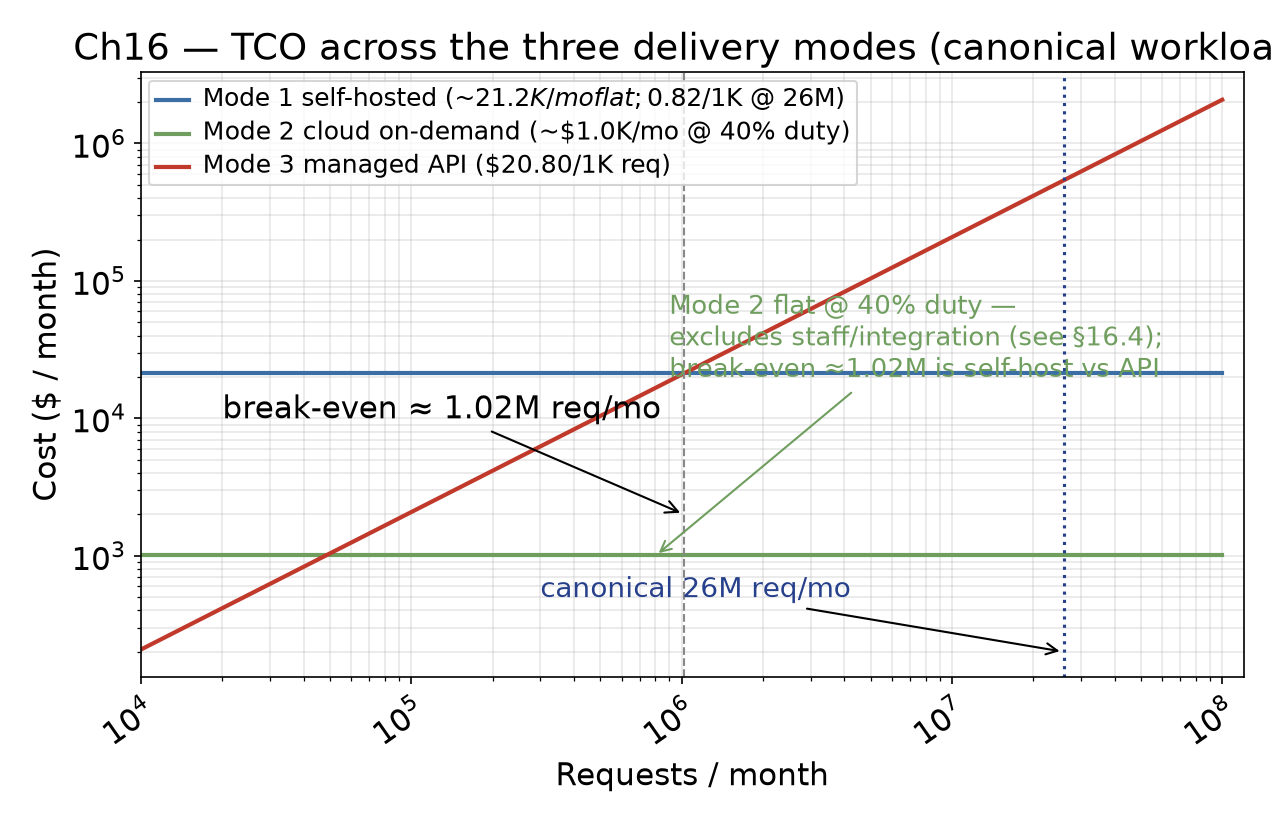
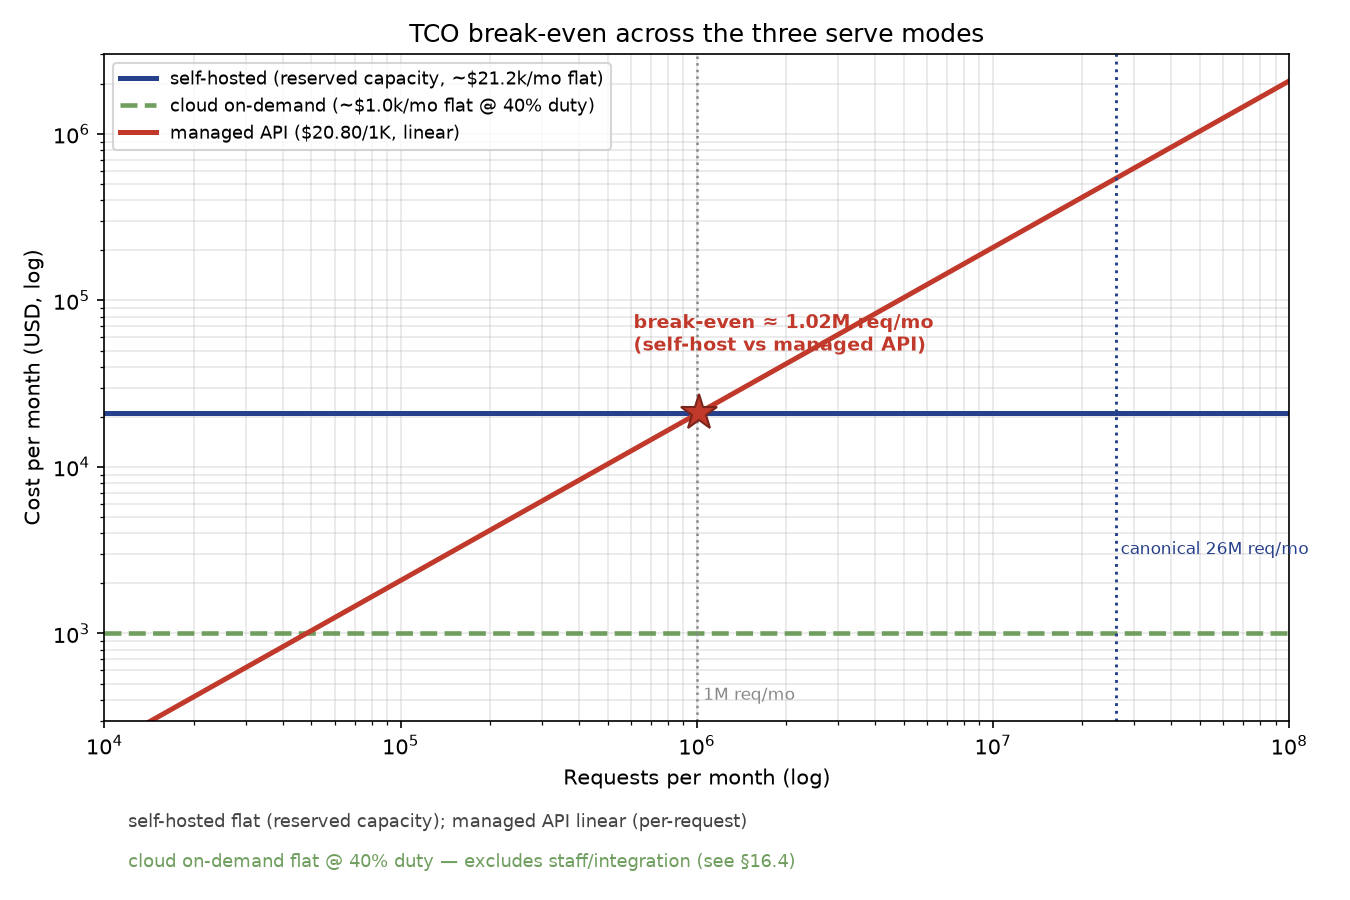
Fix Fig 16.1 TCO: unclipped title, three-mode curves, notes in margin (no legend/annotation overlap), labeled break-even

diff --git a/render/fig_ch16_tco.py b/render/fig_ch16_tco.py
@@ -1,0 +1,48 @@
+import matplotlib
+matplotlib.use('Agg')
+import matplotlib.pyplot as plt
+import numpy as np
+
+# ---- fig-16-1601: TCO break-even across three serve modes ----
+# self-hosted: high fixed (reserved capacity, flat vs volume)
+# cloud on-demand: low fixed (per-use, flat at a duty-cycle assumption)
+# managed API: linear per-request
+req = np.logspace(4, 8, 300)
+self_host = np.full_like(req, 21200.0)        # ~$21.2k/mo flat (reserved capacity)
+cloud_od  = np.full_like(req, 1000.0)          # ~$1.0k/mo flat (on-demand @ 40% duty)
+managed   = 0.0208 * req                       # $20.80/1K -> linear
+
+fig, ax = plt.subplots(figsize=(9, 6))
+ax.loglog(req, self_host, '-', color='#27408b', lw=2.4, label='self-hosted (reserved capacity, ~$21.2k/mo flat)')
+ax.loglog(req, cloud_od, '--', color='#6f9e5f', lw=2.2, label='cloud on-demand (~$1.0k/mo flat @ 40% duty)')
+ax.loglog(req, managed, '-', color='#c0392b', lw=2.4, label='managed API ($20.80/1K, linear)')
+
+ax.set_xlabel('Requests per month (log)')
+ax.set_ylabel('Cost per month (USD, log)')
+ax.set_title('TCO break-even across the three serve modes', fontsize=12)
+ax.set_xlim(1e4, 1e8); ax.set_ylim(3e2, 3e6)
+ax.legend(fontsize=8.5, loc='upper left')
+ax.grid(alpha=0.3, which='both')
+
+# reference lines
+ax.axvline(1e6, color='#888', ls=':', lw=1.2)
+ax.text(1.05e6, 4e2, '1M req/mo', fontsize=8, color='#888')
+ax.axvline(2.6e7, color='#27408b', ls=':', lw=1.4)
+ax.text(2.7e7, 3e3, 'canonical 26M req/mo', fontsize=8, color='#27408b')
+
+# break-even self-host vs managed: solve 0.0208*x = 21200
+be = 21200/0.0208
+ax.plot([be], [21200], '*', ms=18, color='#c0392b', mec='#7b241c', zorder=6)
+ax.text(be*0.6, 5e4, f'break-even ≈ {be/1e6:.2f}M req/mo\n(self-host vs managed API)', fontsize=9,
+        color='#c0392b', fontweight='bold')
+
+# annotations placed OUTSIDE the plot area (in figure margin), not over data
+ax.text(0.02, -0.16, 'self-hosted flat (reserved capacity); managed API linear (per-request)',
+        transform=ax.transAxes, fontsize=8.5, color='#444')
+ax.text(0.02, -0.22, 'cloud on-demand flat @ 40% duty — excludes staff/integration (see §16.4)',
+        transform=ax.transAxes, fontsize=8.5, color='#6f9e5f')
+
+plt.tight_layout()
+plt.savefig('design/manuscript/chapter-16/figures/fig-16-1601.png', dpi=150)
+plt.close()
+print('wrote fig-16-1601')
